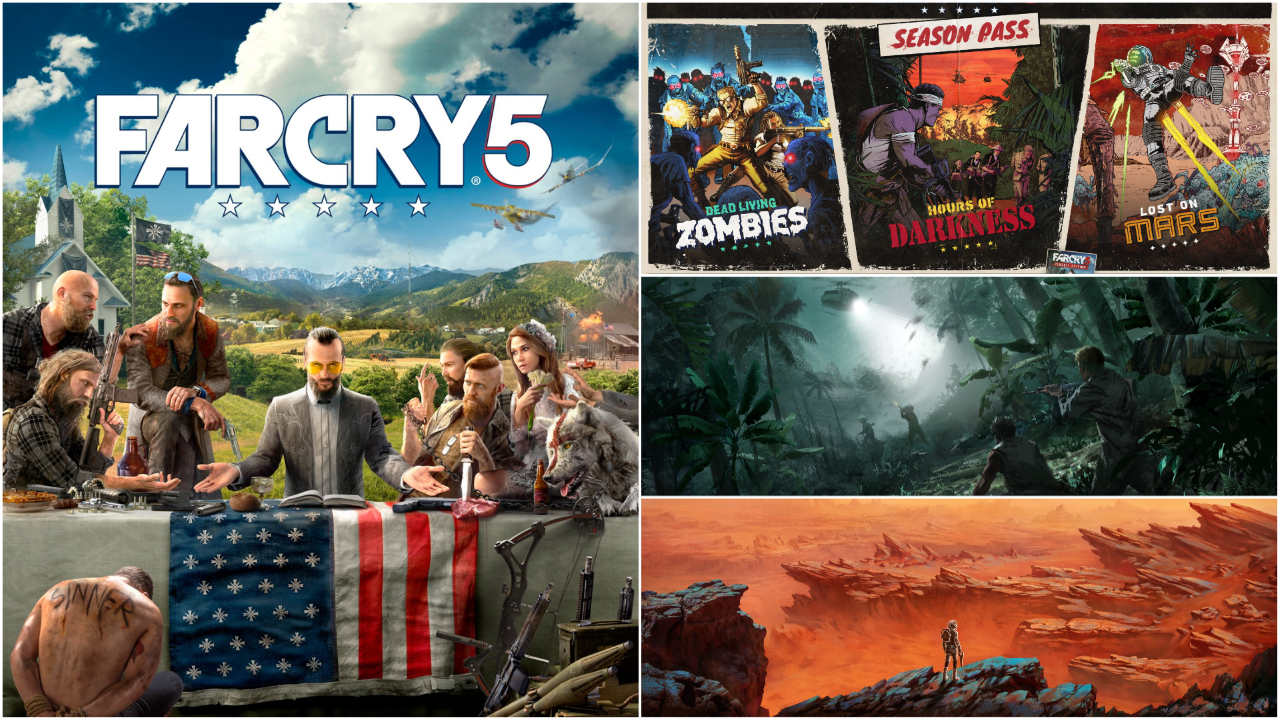
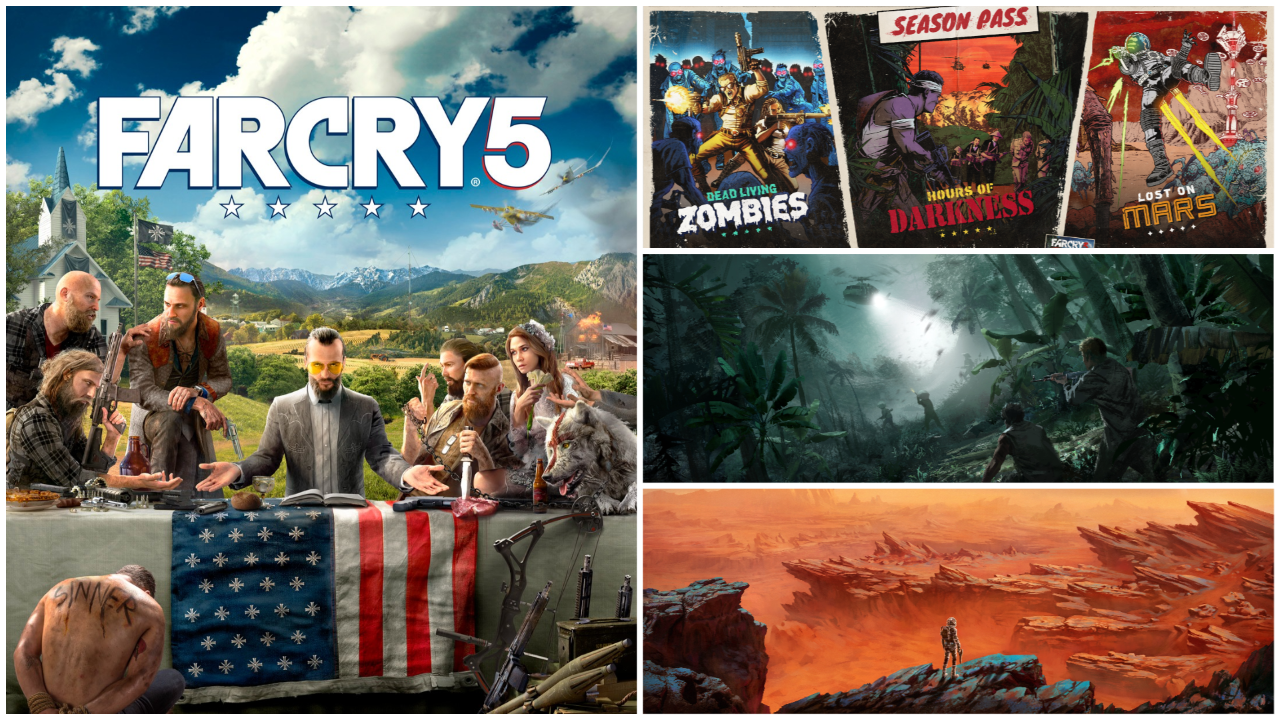
game synced pic updates

diff --git a/index.md b/index.md
@@ -17,7 +17,7 @@ Apr 2019 – Present
 
 - [SYNCED](https://www.syncedthegame.com)  
 A PvPvE co-op looter shooter game in development.  
-![Game_Synced](./asset/Game_Synced_320.jpg)
+![Game_Synced](./assets/SYNCED_FIN_PNG_1280.png)
 
 Audio Designer at Ubisoft Shanghai  
 Aug 2015 – Apr 2019  

diff --git a/assets/note.md b/assets/note.md
@@ -1,3 +1,3 @@
 https://pc.meitu.com/
 size: 1920*1080
-margin: 5
+margin: 10
